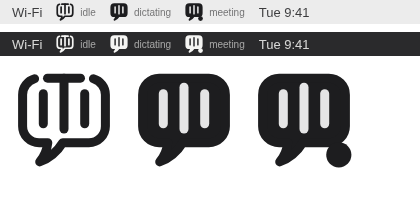
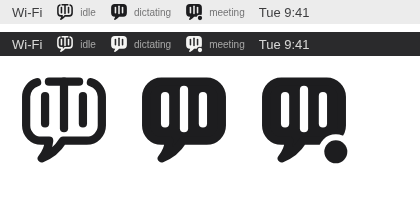
Address self-review of the menu bar glyph [skip ci]
- Pad the glyph box (640 -> 700 units) so the mark is ~16 pt tall, like
  a menu bar SF Symbol, instead of filling the 18 pt image edge to edge.
- Cache one image per state so refreshes reuse AppKit's renders.
- Tests: check the meeting dot's clear ring, narrow the source-pin slice
  to refreshStatusItemPresentation, and fail when the Swift geometry
  drifts from make_menu_bar_icons.py.
- Preview tooling: masks use white/black keywords and per-state ids so
  recolouring and inlining no longer break the knockouts; the generator
  writes next to itself; docs match what the files do.

Claude-Session: https://claude.ai/code/session_01J9b1Y8pdNqfPJjYLULBrTv

diff --git a/Tests/StatusItemPresentationTests.swift b/Tests/StatusItemPresentationTests.swift
@@ -5,8 +5,9 @@
 // for the glyph states and accessibility labels, and guards against a red or non-template treatment that
 // would make the always-visible capture icon alarming instead of quiet. The second suite is real behavioral
 // coverage: it renders every MenuBarGlyph into a bitmap and checks the silhouettes actually differ where
-// they are meant to. If you rename refreshStatusItemPresentation, update statusItemPresentationSlice below
-// to match.
+// they are meant to. The third keeps MenuBarGlyphGeometry in step with the generator that draws the
+// committed SVGs in docs/assets/menu-bar-icon/. If you rename refreshStatusItemPresentation or the
+// method after it, update statusItemPresentationSlice below to match.
 
 import AppKit
 import Foundation
@@ -64,24 +65,83 @@ func testStatusItemPresentation() {
         let dictating = renderMenuBarGlyph(.dictating)
         let meeting = renderMenuBarGlyph(.meetingRecording)
 
-        // The T's stem runs down the centre (design x 512 -> pixel 18 of 36, bar middle y 450 -> row 14).
+        // Pixels are 36 per 700 design units, starting at the box origin (162, 175).
+        // The T's stem runs down the centre (design x 512, bar middle y 450 -> pixel 17, row 14).
         assertTrue(menuBarGlyphAlpha(idle, x: 17, y: 14) > 0.9, "idle should draw the T's stem in ink")
         assertTrue(menuBarGlyphAlpha(dictating, x: 17, y: 14) < 0.1, "dictating should cut the stem out of the filled bubble")
         assertTrue(menuBarGlyphAlpha(meeting, x: 17, y: 14) < 0.1, "meeting should cut the stem out of the filled bubble")
 
         // Inside the bubble between the stem and a side bar: empty when idle, solid when filled.
-        assertTrue(menuBarGlyphAlpha(idle, x: 13, y: 16) < 0.1, "idle should be an outline")
-        assertTrue(menuBarGlyphAlpha(dictating, x: 13, y: 16) > 0.9, "dictating should be a filled bubble")
+        // (design ~443, ~495 -> pixel 14, row 16).
+        assertTrue(menuBarGlyphAlpha(idle, x: 14, y: 16) < 0.1, "idle should be an outline")
+        assertTrue(menuBarGlyphAlpha(dictating, x: 14, y: 16) > 0.9, "dictating should be a filled bubble")
 
-        // The recording dot sits off the bubble's bottom-right corner (design 744,757 -> pixel 31,31).
-        assertTrue(menuBarGlyphAlpha(meeting, x: 31, y: 31) > 0.9, "meeting should draw the recording dot")
-        assertTrue(menuBarGlyphAlpha(dictating, x: 31, y: 31) < 0.1, "dictating should have no recording dot")
-        assertTrue(menuBarGlyphAlpha(idle, x: 31, y: 31) < 0.1, "idle should have no recording dot")
+        // The recording dot sits off the bubble's bottom-right corner (design 744, 757 -> pixel 29, row 29).
+        assertTrue(menuBarGlyphAlpha(meeting, x: 29, y: 29) > 0.9, "meeting should draw the recording dot")
+        assertTrue(menuBarGlyphAlpha(dictating, x: 29, y: 29) < 0.1, "dictating should have no recording dot")
+        assertTrue(menuBarGlyphAlpha(idle, x: 29, y: 29) < 0.1, "idle should have no recording dot")
+
+        // A clear ring separates the dot from the bubble. Pixel 28, row 24 (design ~706...726, ~642...661)
+        // is inside the bubble's corner and inside that ring: solid when dictating, cleared for a meeting.
+        assertTrue(menuBarGlyphAlpha(dictating, x: 28, y: 24) > 0.9, "the bubble corner should be solid while dictating")
+        assertTrue(menuBarGlyphAlpha(meeting, x: 28, y: 24) < 0.1, "a clear ring should keep the dot from merging into the bubble")
 
         // Knockouts must stay inside the glyph: drawing over an opaque background keeps it opaque.
         let composited = renderMenuBarGlyph(.meetingRecording, overOpaqueBackground: true)
         assertTrue(menuBarGlyphAlpha(composited, x: 17, y: 14) > 0.99, "knockouts should not punch through what is behind the glyph")
+        assertTrue(menuBarGlyphAlpha(composited, x: 28, y: 24) > 0.99, "the dot's ring should not punch through what is behind the glyph")
+
+        assertTrue(
+            MenuBarGlyph.dictating.image(accessibilityDescription: "Transcripted — dictating")
+                === MenuBarGlyph.dictating.image(accessibilityDescription: "Transcripted — dictating"),
+            "repeat refreshes should reuse the same image instead of redrawing it"
+        )
     }
+
+    runSuite("menu bar glyph geometry matches the SVG generator") {
+        let generator = readSourceFixture("docs/assets/menu-bar-icon/make_menu_bar_icons.py")
+        let g = MenuBarGlyphGeometry.self
+        let expected: [(String, [CGFloat])] = [
+            ("SW", [g.strokeWidth]),
+            ("L, R, TOP, BOT, RAD", [g.left, g.right, g.top, g.bottom, g.radius]),
+            ("CX, MID", [g.centerX, g.barMidY]),
+            ("CB", [g.crossbarHalfLength]),
+            ("GAP", [g.crossbarGap]),
+            ("STEM_BOT", [g.stemBottom]),
+            ("SIDE_BARS", [g.sideBarOffset, g.sideBarHeight]),
+            ("DOT_C, DOT_R, DOT_RING", [g.dotCenter.x, g.dotCenter.y, g.dotRadius, g.dotRing]),
+            ("BOX_X, BOX_Y, BOX", [g.box.minX, g.box.minY, g.box.width]),
+        ]
+        for (names, values) in expected {
+            assertEqual(
+                pythonAssignmentNumbers(generator, names: names),
+                values,
+                "\(names) in make_menu_bar_icons.py should match MenuBarGlyphGeometry"
+            )
+        }
+        assertEqual(g.box.width, g.box.height, "the glyph box should be square")
+
+        let glyphSource = readSourceFixture("Sources/UI/MenuBar/MenuBarGlyph.swift")
+        assertTrue(
+            generator.contains("L 404 {BOT} Q 396 748 350 804 Q 446 770 504 {BOT}")
+                && glyphSource.contains("CGPoint(x: 404, y: bottom)")
+                && glyphSource.contains("addQuadCurve(to: CGPoint(x: 350, y: 804), control: CGPoint(x: 396, y: 748))")
+                && glyphSource.contains("addQuadCurve(to: CGPoint(x: 504, y: bottom), control: CGPoint(x: 446, y: 770))"),
+            "the bubble's tail should match between the generator and the Swift drawing"
+        )
+    }
+}
+
+/// Numbers on the right of a line like `DOT_C, DOT_R, DOT_RING = (744, 757), 84, 44`, ignoring any
+/// trailing comment.
+private func pythonAssignmentNumbers(_ source: String, names: String) -> [CGFloat] {
+    let prefix = "\(names) = "
+    guard let line = source.split(separator: "\n").first(where: { $0.hasPrefix(prefix) }) else {
+        return []
+    }
+    let rhs = line.dropFirst(prefix.count).split(separator: "#", maxSplits: 1).first ?? ""
+    let numbers = rhs.split(whereSeparator: { !($0.isNumber || $0 == ".") })
+    return numbers.compactMap { Double($0) }.map { CGFloat($0) }
 }
 
 private func renderMenuBarGlyph(_ glyph: MenuBarGlyph, overOpaqueBackground: Bool = false) -> NSBitmapImageRep {
@@ -121,7 +181,7 @@ private func statusItemPresentationSlice(_ source: String) -> String {
         return ""
     }
     let tail = source[start.lowerBound...]
-    guard let end = tail.range(of: "private func installSettingsMenuHandler()") else {
+    guard let end = tail.range(of: "private func closePopover()") else {
         return String(tail)
     }
     return String(tail[..<end.lowerBound])

diff --git a/Sources/UI/MenuBar/MenuBarGlyph.swift b/Sources/UI/MenuBar/MenuBarGlyph.swift
@@ -6,7 +6,7 @@
 // Filled means capturing; the dot means a meeting. There is no color on
 // purpose, so the always-visible icon stays quiet during screen sharing.
 //
-// GlyphGeometry is the app icon's own, in its 1024-unit design space
+// MenuBarGlyphGeometry is the app icon's own, in its 1024-unit design space
 // (docs/assets/app-icon-options/round8/H-mono-light.svg). It mirrors
 // docs/assets/menu-bar-icon/make_menu_bar_icons.py — keep the numbers in sync.
 // At menu bar size the icon's outer pair of bars smears into the wall, so the
@@ -21,7 +21,16 @@ enum MenuBarGlyph: CaseIterable {
 
     static let pointSize: CGFloat = 18
 
+    /// One image per state and label. The status item only touches this from
+    /// the main thread, and reusing the image keeps AppKit's cached renders
+    /// instead of redrawing the paths on every refresh.
+    private static var imageCache: [String: NSImage] = [:]
+
     func image(accessibilityDescription: String?) -> NSImage {
+        let cacheKey = "\(self)|\(accessibilityDescription ?? "")"
+        if let cached = Self.imageCache[cacheKey] {
+            return cached
+        }
         let glyph = self
         let size = NSSize(width: Self.pointSize, height: Self.pointSize)
         let image = NSImage(size: size, flipped: true) { rect in
@@ -31,19 +40,20 @@ enum MenuBarGlyph: CaseIterable {
         }
         image.isTemplate = true
         image.accessibilityDescription = accessibilityDescription
+        Self.imageCache[cacheKey] = image
         return image
     }
 
     /// Draws into a y-down context. Knockouts happen inside a transparency
     /// layer so they only clear the glyph, never whatever is behind it.
     func draw(in rect: CGRect, context: CGContext) {
-        let box = GlyphGeometry.box
+        let box = MenuBarGlyphGeometry.box
         context.saveGState()
         defer { context.restoreGState() }
         context.translateBy(x: rect.minX, y: rect.minY)
         context.scaleBy(x: rect.width / box.width, y: rect.height / box.height)
         context.translateBy(x: -box.minX, y: -box.minY)
-        context.setLineWidth(GlyphGeometry.strokeWidth)
+        context.setLineWidth(MenuBarGlyphGeometry.strokeWidth)
         context.setLineCap(.round)
         context.setLineJoin(.round)
         context.setStrokeColor(NSColor.black.cgColor)
@@ -51,32 +61,34 @@ enum MenuBarGlyph: CaseIterable {
 
         switch self {
         case .idle:
-            context.addPath(GlyphGeometry.outlinePath())
-            context.addPath(GlyphGeometry.crossbarPath())
-            context.addPath(GlyphGeometry.stemPath(from: GlyphGeometry.top))
-            context.addPath(GlyphGeometry.sideBarsPath())
+            context.addPath(MenuBarGlyphGeometry.outlinePath())
+            context.addPath(MenuBarGlyphGeometry.crossbarPath())
+            context.addPath(MenuBarGlyphGeometry.stemPath(from: MenuBarGlyphGeometry.top))
+            context.addPath(MenuBarGlyphGeometry.sideBarsPath())
             context.strokePath()
         case .dictating, .meetingRecording:
             context.beginTransparencyLayer(auxiliaryInfo: nil)
-            context.addPath(GlyphGeometry.bodyPath())
+            context.addPath(MenuBarGlyphGeometry.bodyPath())
             context.drawPath(using: .fillStroke)
             context.setBlendMode(.clear)
             // The stem starts under the top edge, so the solid top edge reads
             // as the T's crossbar.
-            context.addPath(GlyphGeometry.stemPath(from: GlyphGeometry.top + GlyphGeometry.strokeWidth))
-            context.addPath(GlyphGeometry.sideBarsPath())
+            context.addPath(MenuBarGlyphGeometry.stemPath(from: MenuBarGlyphGeometry.top + MenuBarGlyphGeometry.strokeWidth))
+            context.addPath(MenuBarGlyphGeometry.sideBarsPath())
             context.strokePath()
             if self == .meetingRecording {
-                context.fillEllipse(in: GlyphGeometry.dotRect(radius: GlyphGeometry.dotRadius + GlyphGeometry.dotRing))
+                context.fillEllipse(in: MenuBarGlyphGeometry.dotRect(radius: MenuBarGlyphGeometry.dotRadius + MenuBarGlyphGeometry.dotRing))
                 context.setBlendMode(.normal)
-                context.fillEllipse(in: GlyphGeometry.dotRect(radius: GlyphGeometry.dotRadius))
+                context.fillEllipse(in: MenuBarGlyphGeometry.dotRect(radius: MenuBarGlyphGeometry.dotRadius))
             }
             context.endTransparencyLayer()
         }
     }
 }
 
-private enum GlyphGeometry {
+/// Internal (not private) so the fast tests can check these numbers against
+/// docs/assets/menu-bar-icon/make_menu_bar_icons.py.
+enum MenuBarGlyphGeometry {
     static let strokeWidth: CGFloat = 60
     static let left: CGFloat = 236
     static let right: CGFloat = 788
@@ -93,8 +105,10 @@ private enum GlyphGeometry {
     static let dotCenter = CGPoint(x: 744, y: 757)
     static let dotRadius: CGFloat = 84
     static let dotRing: CGFloat = 44
-    /// Square around the mark (bounds incl. stroke are x 206...818, y 216...834).
-    static let box = CGRect(x: 192, y: 205, width: 640, height: 640)
+    /// Square centred on the mark (bounds incl. stroke are x 206...818,
+    /// y 216...834). The padding keeps the mark about 16 pt tall in the 18 pt
+    /// image, like a menu bar SF Symbol.
+    static let box = CGRect(x: 162, y: 175, width: 700, height: 700)
 
     static let topLeft = CGPoint(x: left + radius, y: top + radius)
     static let bottomLeft = CGPoint(x: left + radius, y: bottom - radius)

diff --git a/docs/assets/menu-bar-icon/render_preview.js b/docs/assets/menu-bar-icon/render_preview.js
@@ -1,9 +1,11 @@
-// Renders preview.png: the three menu bar glyphs on light and dark menu bars at 2x and 1x.
-// NODE_PATH=$(npm root -g) node render_preview.js
+// Renders preview@2x.png and preview@1x.png: the three menu bar glyphs on light and dark menu bars.
+// Run from this directory: NODE_PATH=$(npm root -g) node render_preview.js
+// The SVGs draw ink as #000 and their masks as white/black keywords, so swapping #000 recolours
+// only the ink and leaves the knockouts alone.
 const { chromium } = require('playwright');
 const fs = require('fs');
 const st = ['idle', 'dictating', 'meeting'];
-const g = (s, ink, px) => fs.readFileSync(`${s}.svg`, 'utf8').replace('<svg ', `<svg width="${px}" height="${px}" `).replace(/#000"/g, `${ink}"`).replace(/fill="#000"/g, `fill="${ink}"`);
+const g = (s, ink, px) => fs.readFileSync(`${s}.svg`, 'utf8').replace('<svg ', `<svg width="${px}" height="${px}" `).replace(/#000"/g, `${ink}"`);
 const bar = (bg, ink, px) => `<div style="background:${bg};height:24px;display:flex;align-items:center;gap:14px;padding:0 12px;font:13px -apple-system,Helvetica;color:${ink}">
   <span style="opacity:.85">Wi-Fi</span>${st.map(s => `<span style="display:flex;align-items:center;gap:6px">${g(s, ink, px)}<span style="font-size:10px;opacity:.6">${s}</span></span>`).join('')}<span style="opacity:.85">Tue 9:41</span></div>`;
 (async () => {

diff --git a/docs/assets/menu-bar-icon/make_menu_bar_icons.py b/docs/assets/menu-bar-icon/make_menu_bar_icons.py
@@ -5,9 +5,10 @@ Geometry is the app icon's own (docs/assets/app-icon-options/round8/H-mono-light
 units). Arcs are written as cubic Beziers so this file and Sources/UI/MenuBar/MenuBarGlyph.swift
 draw the exact same curves. Keep the numbers in the two files in sync.
 
-    python3 make_menu_bar_icons.py      # writes idle.svg, dictating.svg, meeting.svg + preview.html
+    python3 make_menu_bar_icons.py      # writes idle.svg, dictating.svg, meeting.svg next to this file
 """
 import math
+import os
 
 SW = 60                                   # stroke width (same as the app icon)
 L, R, TOP, BOT, RAD = 236, 788, 246, 676, 110
@@ -19,8 +20,9 @@ SIDE_BARS = [(138, 200)]                   # (offset from centre, height); the i
                                           # dropped because it smears at menu bar size, and the
                                           # remaining pair sits halfway between the stem and the wall
 DOT_C, DOT_R, DOT_RING = (744, 757), 84, 44   # meeting "recording" dot and the clear ring around it
-# Glyph bounds incl. stroke: x 206..818, y 216..834 -> a 640-unit square centred on the mark.
-BOX_X, BOX_Y, BOX = 192, 205, 640
+# Glyph bounds incl. stroke: x 206..818, y 216..834. The 700-unit square centred on the mark
+# leaves padding so the mark is about 16 pt tall in an 18 pt image, like a menu bar SF Symbol.
+BOX_X, BOX_Y, BOX = 162, 175, 700
 
 
 def arc(c, r, a0, a1):
@@ -43,7 +45,6 @@ def outline_d():
     th = math.asin(((L + RAD) - x_end) / RAD)          # angle from straight up
     tl_c, bl_c, br_c, tr_c = (L + RAD, TOP + RAD), (L + RAD, BOT - RAD), (R - RAD, BOT - RAD), (R - RAD, TOP + RAD)
     up = -math.pi / 2
-    segs = []
     p0, p1, p2, p3 = arc(tl_c, RAD, up - th, -math.pi)
     d = f'M {f(p0)} C {f(p1)} {f(p2)} {f(p3)} L {L} {BOT-RAD} '
     _, p1, p2, p3 = arc(bl_c, RAD, math.pi, math.pi / 2)
@@ -80,8 +81,11 @@ def bars():
 S = f'stroke-width="{SW}" stroke-linecap="round" stroke-linejoin="round"'
 
 
-def svg(state, ink='#000', size=None):
-    size_attr = f' width="{size}" height="{size}"' if size else ''
+def svg(state, ink='#000'):
+    # Mask colours are the keywords white/black, never a hex ink, so recolouring the ink
+    # (render_preview.js swaps #000) can't touch the knockouts. Each state gets its own mask id
+    # so several glyphs can be inlined in one page.
+    mid = f'cut-{state}'
     if state == 'idle':
         body = (f'<g stroke="{ink}" fill="none" {S}><path d="{outline_d()}"/>'
                 f'<path d="M {CX-CB} {TOP} H {CX+CB}"/>' + ''.join(f'<path d="{b}"/>' for b in bars()) + '</g>')
@@ -89,20 +93,22 @@ def svg(state, ink='#000', size=None):
         # Filled bubble with the stem and side bars knocked out. The stem starts under the top edge
         # so the solid top edge reads as the T's crossbar.
         cut = [f'M {CX} {TOP+SW} V {STEM_BOT}'] + bars()[1:]
-        mask = (f'<mask id="m" maskUnits="userSpaceOnUse" x="0" y="0" width="1024" height="1024">'
-                f'<rect width="1024" height="1024" fill="#fff"/>'
-                f'<g stroke="#000" fill="none" {S}>' + ''.join(f'<path d="{b}"/>' for b in cut) + '</g>')
+        mask = (f'<mask id="{mid}" maskUnits="userSpaceOnUse" x="0" y="0" width="1024" height="1024">'
+                f'<rect width="1024" height="1024" fill="white"/>'
+                f'<g stroke="black" fill="none" {S}>' + ''.join(f'<path d="{b}"/>' for b in cut) + '</g>')
         if state == 'meeting':
-            mask += f'<circle cx="{DOT_C[0]}" cy="{DOT_C[1]}" r="{DOT_R+DOT_RING}" fill="#000"/>'
+            mask += f'<circle cx="{DOT_C[0]}" cy="{DOT_C[1]}" r="{DOT_R+DOT_RING}" fill="black"/>'
         mask += '</mask>'
-        body = (f'<defs>{mask}</defs><path d="{body_d()}" fill="{ink}" stroke="{ink}" {S} mask="url(#m)"/>')
+        body = (f'<defs>{mask}</defs><path d="{body_d()}" fill="{ink}" stroke="{ink}" {S} mask="url(#{mid})"/>')
         if state == 'meeting':
             body += f'<circle cx="{DOT_C[0]}" cy="{DOT_C[1]}" r="{DOT_R}" fill="{ink}"/>'
-    return (f'<svg xmlns="http://www.w3.org/2000/svg"{size_attr} viewBox="{BOX_X} {BOX_Y} {BOX} {BOX}">'
+    return (f'<svg xmlns="http://www.w3.org/2000/svg" viewBox="{BOX_X} {BOX_Y} {BOX} {BOX}">'
             f'{body}</svg>')
 
 
 if __name__ == '__main__':
+    here = os.path.dirname(os.path.abspath(__file__))
     for st in ('idle', 'dictating', 'meeting'):
-        open(f'{st}.svg', 'w').write(svg(st))
+        with open(os.path.join(here, f'{st}.svg'), 'w') as out:
+            out.write(svg(st))
     print('wrote idle.svg dictating.svg meeting.svg')

diff --git a/docs/assets/menu-bar-icon/README.md b/docs/assets/menu-bar-icon/README.md
@@ -4,14 +4,17 @@ The menu bar glyph is the app icon's outlined speech bubble with the hidden "T",
 one-color template image so macOS tints it for light and dark menu bars.
 
 - `idle.svg`: the outline mark, used when nothing is recording
-- `dictating.svg`: the same bubble filled in, with the waveform cut out
+- `dictating.svg`: the same bubble filled in, with the T's stem and the side bars cut out
 - `meeting.svg`: the filled bubble plus a small recording dot
 
 At menu bar size the app icon's outer pair of bars smears into the wall, so the glyph keeps the
-T's stem and one pair of side bars, halfway between the stem and the wall.
+T's stem and one pair of side bars, halfway between the stem and the wall. The mark sits in
+a 700-unit square (about 16 pt tall in the 18 pt image) so it has the same breathing room as a
+menu bar SF Symbol.
 
 `Sources/UI/MenuBar/MenuBarGlyph.swift` draws the same shapes in code. Keep the numbers in
-`make_menu_bar_icons.py` and that file in sync.
+`make_menu_bar_icons.py` and that file in sync; `Tests/StatusItemPresentationTests.swift` fails
+when they drift.
 
-Regenerate: `python3 make_menu_bar_icons.py`, then
+Regenerate: `python3 make_menu_bar_icons.py` (from anywhere), then, from this directory,
 `NODE_PATH=$(npm root -g) node render_preview.js` for `preview@2x.png` / `preview@1x.png`.
